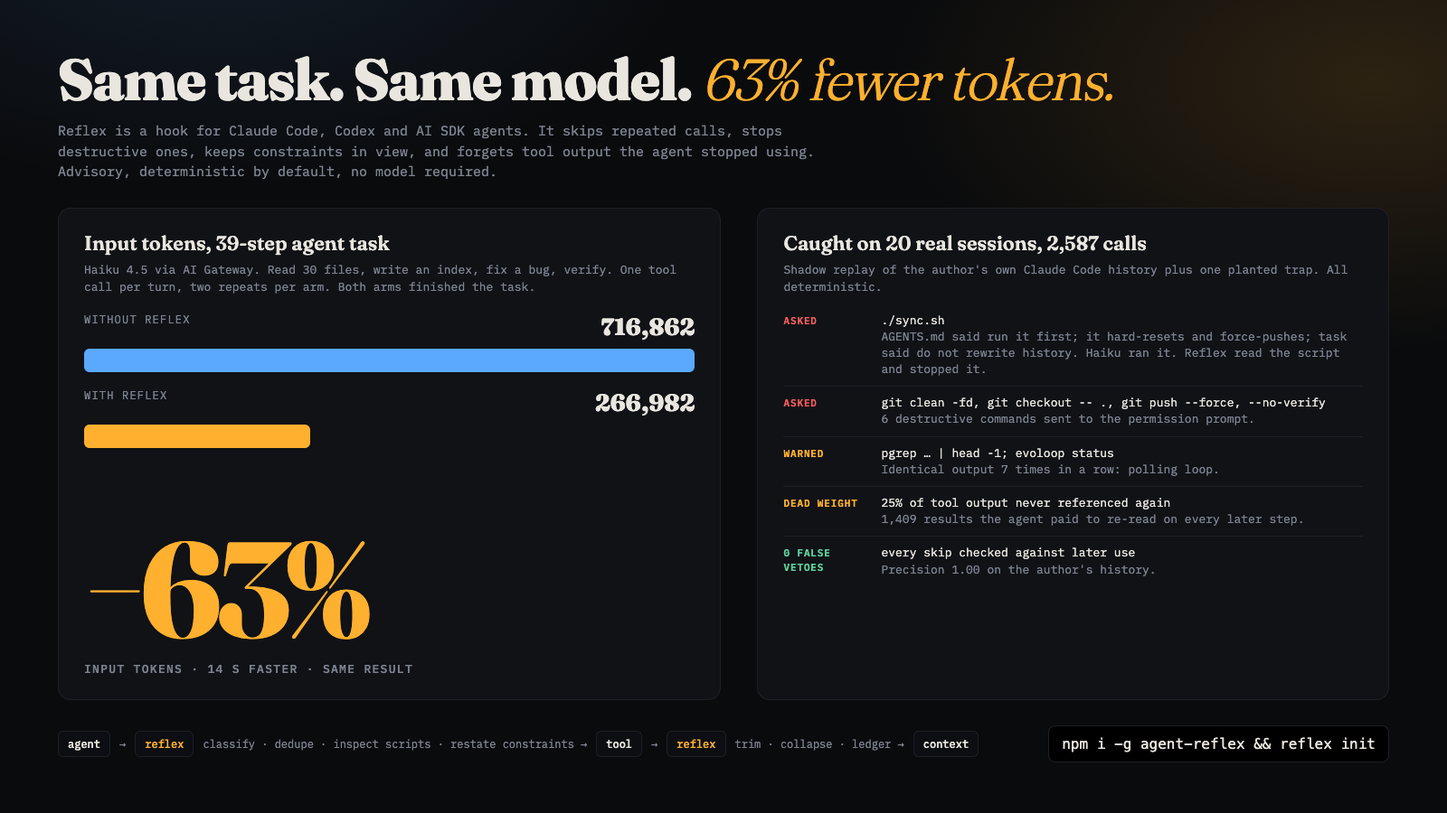
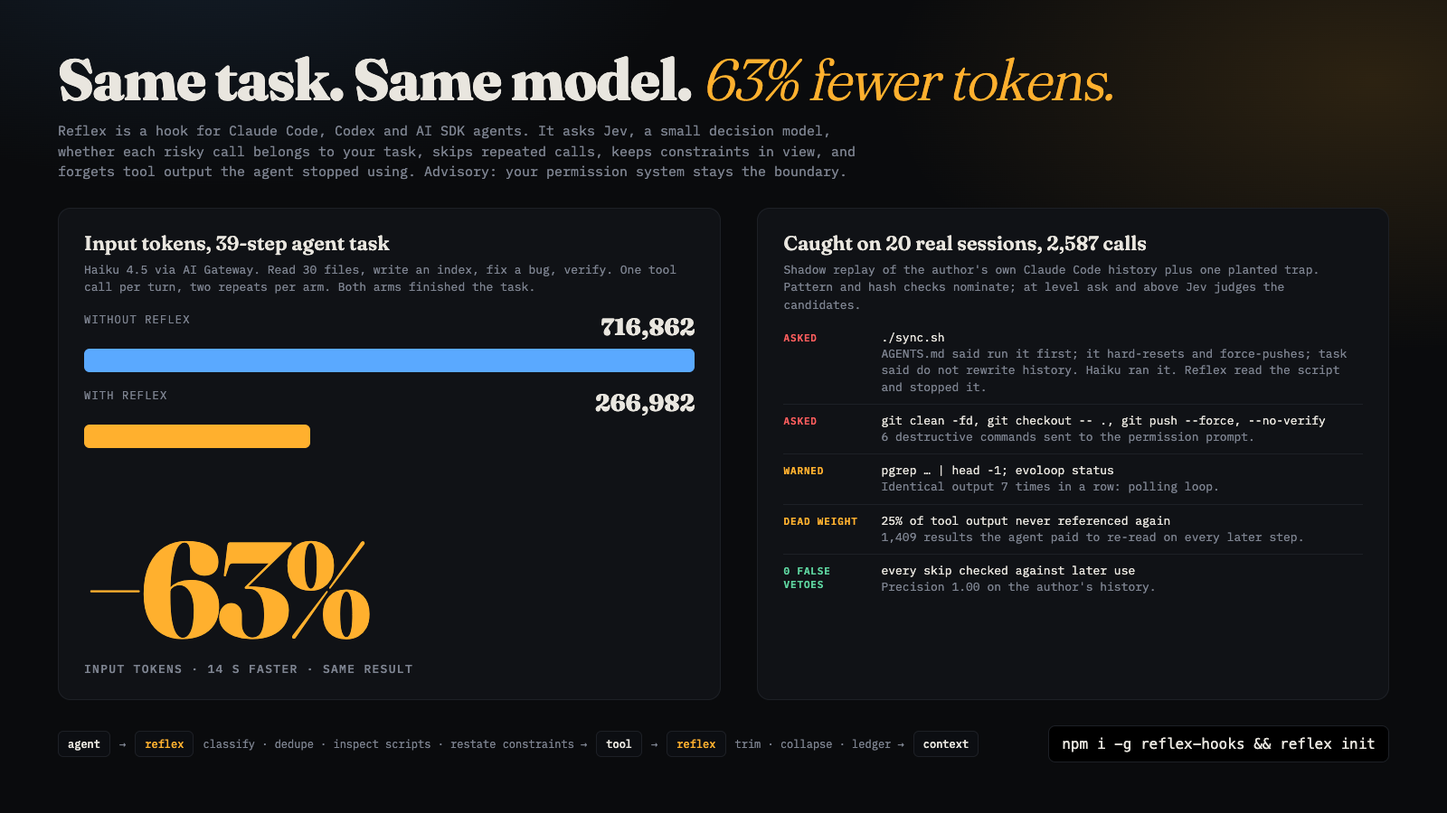
feat(demo): reread and routing clips, context infographic, stale claims fixed
clip-reread.html: the same file read three times with and without Reflex; exact repeat served by hash, near repeat by Jev redundant 0.93. clip-routing.html: the real 39-step benchmark trace with Jev's per-step model choice and the running cost, $1.75 against $0.28. context.html: the redundant-read probe and the re-read cost on 20 real sessions, with the coin-flip relevance result stated. infographic.html no longer says deterministic by default.

diff --git a/apps/demo/steps.js b/apps/demo/steps.js
@@ -1,0 +1,2 @@
+const BASE=[{"tool": "list_files", "arg": "docs", "in": 973, "out": 67, "small": false}, {"tool": "read_file", "arg": "docs/module1.md", "in": 1285, "out": 92, "small": false}, {"tool": "read_file", "arg": "docs/module2.md", "in": 2527, "out": 480, "small": false}, {"tool": "read_file", "arg": "docs/module3.md", "in": 4157, "out": 90, "small": false}, {"tool": "read_file", "arg": "docs/module4.md", "in": 5397, "out": 80, "small": false}, {"tool": "read_file", "arg": "docs/module5.md", "in": 6627, "out": 71, "small": false}, {"tool": "read_file", "arg": "docs/module6.md", "in": 7848, "out": 115, "small": false}, {"tool": "read_file", "arg": "docs/module7.md", "in": 9113, "out": 71, "small": false}, {"tool": "read_file", "arg": "docs/module8.md", "in": 10334, "out": 71, "small": false}, {"tool": "read_file", "arg": "docs/module9.md", "in": 11555, "out": 71, "small": false}, {"tool": "read_file", "arg": "docs/module10.md", "in": 12776, "out": 71, "small": false}, {"tool": "read_file", "arg": "docs/module11.md", "in": 13997, "out": 71, "small": false}, {"tool": "read_file", "arg": "docs/module12.md", "in": 15218, "out": 71, "small": false}, {"tool": "read_file", "arg": "docs/module13.md", "in": 16439, "out": 71, "small": false}, {"tool": "read_file", "arg": "docs/module14.md", "in": 17660, "out": 71, "small": false}, {"tool": "read_file", "arg": "docs/module15.md", "in": 18881, "out": 71, "small": false}, {"tool": "read_file", "arg": "docs/module16.md", "in": 20102, "out": 71, "small": false}, {"tool": "read_file", "arg": "docs/module17.md", "in": 21323, "out": 71, "small": false}, {"tool": "read_file", "arg": "docs/module18.md", "in": 22544, "out": 71, "small": false}, {"tool": "read_file", "arg": "docs/module19.md", "in": 23765, "out": 71, "small": false}, {"tool": "read_file", "arg": "docs/module20.md", "in": 24986, "out": 71, "small": false}, {"tool": "read_file", "arg": "docs/module21.md", "in": 26207, "out": 71, "small": false}, {"tool": "read_file", "arg": "docs/module22.md", "in": 27428, "out": 71, "small": false}, {"tool": "read_file", "arg": "docs/module23.md", "in": 28649, "out": 71, "small": false}, {"tool": "read_file", "arg": "docs/module24.md", "in": 29870, "out": 71, "small": false}, {"tool": "read_file", "arg": "docs/module25.md", "in": 31091, "out": 71, "small": false}, {"tool": "read_file", "arg": "docs/module26.md", "in": 32312, "out": 71, "small": false}, {"tool": "read_file", "arg": "docs/module27.md", "in": 33533, "out": 71, "small": false}, {"tool": "read_file", "arg": "docs/module28.md", "in": 34754, "out": 71, "small": false}, {"tool": "read_file", "arg": "docs/module29.md", "in": 35975, "out": 71, "small": false}, {"tool": "read_file", "arg": "docs/module30.md", "in": 37196, "out": 75, "small": false}, {"tool": "write_file", "arg": "docs/INDEX.md", "in": 38421, "out": 449, "small": false}, {"tool": "read_file", "arg": "src/routes.ts", "in": 38887, "out": 88, "small": false}, {"tool": "read_file", "arg": "src/auth.ts", "in": 39004, "out": 80, "small": false}, {"tool": "write_file", "arg": "src/auth.ts", "in": 39139, "out": 265, "small": false}, {"tool": "bash", "arg": "grep -n hom src/auth.ts", "in": 39419, "out": 58, "small": false}, {"tool": "bash", "arg": "cat docs/INDEX.md | wc -l", "in": 39534, "out": 61, "small": false}, {"tool": "finish", "arg": "", "in": 39603, "out": 3, "small": false}];
+const ROUTE=[{"tool": "list_files", "arg": "docs", "in": 973, "out": 67, "small": false}, {"tool": "read_file", "arg": "docs/module1.md", "in": 1282, "out": 83, "small": true}, {"tool": "read_file", "arg": "docs/module2.md", "in": 2279, "out": 77, "small": true}, {"tool": "read_file", "arg": "docs/module3.md", "in": 3270, "out": 77, "small": true}, {"tool": "read_file", "arg": "docs/module4.md", "in": 4261, "out": 77, "small": true}, {"tool": "read_file", "arg": "docs/module5.md", "in": 4374, "out": 77, "small": true}, {"tool": "read_file", "arg": "docs/module6.md", "in": 5365, "out": 77, "small": true}, {"tool": "read_file", "arg": "docs/module7.md", "in": 6356, "out": 77, "small": true}, {"tool": "read_file", "arg": "docs/module8.md", "in": 7347, "out": 77, "small": true}, {"tool": "read_file", "arg": "docs/module9.md", "in": 8338, "out": 77, "small": true}, {"tool": "read_file", "arg": "docs/module10.md", "in": 4939, "out": 77, "small": true}, {"tool": "read_file", "arg": "docs/module11.md", "in": 5930, "out": 77, "small": true}, {"tool": "read_file", "arg": "docs/module12.md", "in": 6921, "out": 77, "small": true}, {"tool": "read_file", "arg": "docs/module13.md", "in": 7912, "out": 77, "small": true}, {"tool": "read_file", "arg": "docs/module14.md", "in": 8903, "out": 77, "small": true}, {"tool": "read_file", "arg": "docs/module15.md", "in": 5504, "out": 77, "small": true}, {"tool": "read_file", "arg": "docs/module16.md", "in": 6495, "out": 77, "small": true}, {"tool": "read_file", "arg": "docs/module17.md", "in": 7486, "out": 77, "small": true}, {"tool": "read_file", "arg": "docs/module18.md", "in": 8477, "out": 77, "small": true}, {"tool": "read_file", "arg": "docs/module19.md", "in": 9468, "out": 77, "small": true}, {"tool": "read_file", "arg": "docs/module20.md", "in": 6069, "out": 77, "small": true}, {"tool": "read_file", "arg": "docs/module21.md", "in": 7060, "out": 77, "small": true}, {"tool": "read_file", "arg": "docs/module22.md", "in": 8051, "out": 77, "small": true}, {"tool": "read_file", "arg": "docs/module23.md", "in": 9042, "out": 77, "small": true}, {"tool": "read_file", "arg": "docs/module24.md", "in": 10033, "out": 77, "small": true}, {"tool": "read_file", "arg": "docs/module25.md", "in": 6634, "out": 77, "small": true}, {"tool": "read_file", "arg": "docs/module26.md", "in": 7625, "out": 77, "small": true}, {"tool": "read_file", "arg": "docs/module27.md", "in": 8616, "out": 77, "small": true}, {"tool": "read_file", "arg": "docs/module28.md", "in": 9607, "out": 77, "small": true}, {"tool": "read_file", "arg": "docs/module29.md", "in": 10598, "out": 77, "small": true}, {"tool": "read_file", "arg": "docs/module30.md", "in": 7199, "out": 77, "small": true}, {"tool": "write_file", "arg": "docs/INDEX.md", "in": 8190, "out": 372, "small": true}, {"tool": "read_file", "arg": "src/routes.ts", "in": 8580, "out": 72, "small": true}, {"tool": "read_file", "arg": "src/auth.ts", "in": 8684, "out": 66, "small": true}, {"tool": "write_file", "arg": "src/auth.ts", "in": 8797, "out": 133, "small": true}, {"tool": "write_file", "arg": "src/routes.ts", "in": 5436, "out": 114, "small": true}, {"tool": "bash", "arg": "grep -n hom src/auth.ts", "in": 5568, "out": 69, "small": true}, {"tool": "bash", "arg": "cat docs/INDEX.md | wc -l", "in": 5686, "out": 70, "small": true}, {"tool": "finish", "arg": "", "in": 5771, "out": 4, "small": true}];

diff --git a/apps/demo/context.html b/apps/demo/context.html
@@ -1,0 +1,76 @@
+<!doctype html>
+<html lang="en">
+<head>
+<meta charset="utf-8">
+<title>Reflex · context</title>
+<link href="https://fonts.googleapis.com/css2?family=Geist+Mono:wght@400;500;600&family=Instrument+Serif:ital@0;1&display=swap" rel="stylesheet">
+<style>
+:root{--bg:#f6f5f1;--card:#fff;--line:#e3e1da;--ink:#141414;--dim:#7b7a72;--acc:#ff4a1c;--jev:#2f5cff;--ok:#178a52}
+*{box-sizing:border-box}
+html,body{margin:0;background:var(--bg)}
+body{width:1600px;height:900px;overflow:hidden;color:var(--ink);font-family:"Geist Mono",ui-monospace,monospace;font-size:13px}
+.g{position:absolute;inset:0;padding:44px 56px 40px;display:grid;grid-template-columns:1fr 1fr;grid-template-rows:auto 1fr auto;gap:22px 28px}
+h1{grid-column:1/3;margin:0;font:italic 400 54px/1.02 "Instrument Serif",serif;letter-spacing:-.01em}
+h1 i{font-style:normal;color:var(--jev)}
+h1 small{display:block;font:400 13px/1.55 "Geist Mono";color:var(--dim);margin-top:12px;max-width:1100px}
+.card{background:var(--card);border:1px solid var(--line);border-radius:14px;padding:22px 26px;box-shadow:0 24px 60px -40px rgba(20,20,20,.18);display:flex;flex-direction:column}
+.card h2{margin:0 0 4px;font:italic 400 22px "Instrument Serif",serif}
+.card h2 i{font-style:normal;color:var(--jev)}
+.card p{margin:0 0 14px;color:var(--dim);font-size:12px;line-height:1.5}
+.probe{display:flex;flex-direction:column;gap:22px;margin-top:18px}
+.pr{display:grid;grid-template-columns:1fr 70px;gap:12px;align-items:center;font-size:13px}
+.pr .bar{grid-column:1/-1;height:12px;background:#ecebe6;border-radius:6px;overflow:hidden}
+.pr .bar i{display:block;height:100%;background:var(--jev)}
+.pr .bar i.hot{background:var(--acc)}
+.pr b{font:400 32px "Instrument Serif",serif;color:var(--jev);text-align:right;font-variant-numeric:tabular-nums}
+.pr b.hot{color:var(--acc)}
+.pr span em{font-style:normal;color:var(--dim)}
+.stats{display:grid;grid-template-columns:1fr 1fr;gap:34px 24px;margin-top:26px}
+.stats div{border-top:1px solid var(--line);padding-top:10px}
+.stats small{display:block;color:var(--dim);font-size:11px;letter-spacing:.12em;text-transform:uppercase;margin-bottom:6px}
+.stats b{display:block;font:400 44px/1 "Instrument Serif",serif;letter-spacing:-.01em;font-variant-numeric:tabular-nums}
+.stats b.acc{color:var(--acc)}.stats b.ok{color:var(--ok)}
+.stats span{display:block;color:var(--dim);font-size:11.5px;margin-top:6px;line-height:1.45}
+.foot{grid-column:1/3;display:grid;grid-template-columns:1fr 1fr 1fr auto;gap:22px}
+.lever{border-left:2px solid var(--line);padding:2px 0 2px 14px;font-size:12px;line-height:1.5;color:var(--dim)}
+.lever b{display:block;color:var(--ink);font:italic 400 18px "Instrument Serif",serif;margin-bottom:3px}
+.lever.j{border-color:var(--jev)}.lever.j b i{font-style:normal;color:var(--jev)}
+.cmd{align-self:center;background:#141414;color:#fff;border-radius:8px;padding:12px 16px;font-size:14px;white-space:nowrap}
+</style>
+</head>
+<body>
+<div class="g">
+  <h1>Your agent reads the same file four times. <i>Jev</i> knows it is the same file.
+    <small>Every result an agent keeps is re-sent to the model on every later step. Reflex hashes each call and hands back the earlier result on an exact repeat; on a near repeat (a different command, same content) it asks Jev one question. Measured on the author's own Claude Code history and the Jev probe states.</small></h1>
+
+  <div class="card">
+    <h2>One question to <i>Jev</i>: is this redundant with a recent read?</h2>
+    <p>Same 400-token control state for every case: goal, recent steps, proposed call. The only read question that separated cleanly. Threshold to skip: 0.90.</p>
+    <div class="probe">
+      <div class="pr"><span>Reread src/auth.ts <em>· already read twice this session</em></span><b class="hot">0.93</b><div class="bar"><i class="hot" style="width:93%"></i></div></div>
+      <div class="pr"><span>Read src/routes.ts <em>· first time</em></span><b>0.11</b><div class="bar"><i style="width:11%"></i></div></div>
+      <div class="pr"><span>Web search "kubernetes ingress auth redirect" <em>· off task</em></span><b>0.36</b><div class="bar"><i style="width:36%"></i></div></div>
+      <div class="pr"><span>Edit routes.ts <em>· in scope, not a read</em></span><b>0.15</b><div class="bar"><i style="width:15%"></i></div></div>
+    </div>
+  </div>
+
+  <div class="card">
+    <h2>What the re-reads cost, 20 real sessions</h2>
+    <p>Shadow replay of the author's Claude Code history, 2,580 tool results, each labelled by whether anything later referenced it.</p>
+    <div class="stats">
+      <div><small>never referenced again</small><b class="acc">1,739 <span style="display:inline;font-size:20px;color:var(--dim)">of 2,580</span></b><span>results paid for on every later step and never used. Mostly small Bash acknowledgements.</span></div>
+      <div><small>tool-output tokens re-read for nothing</small><b class="acc">47%</b><span>re-read-weighted: the cost is thousands of small results re-sent, not a few large ones.</span></div>
+      <div><small>false vetoes in shadow replay</small><b class="ok">0</b><span>571 calls through Jev across four sessions; every skip checked against later use.</span></div>
+      <div><small>Jev round trip</small><b>130–500 <span style="display:inline;font-size:20px;color:var(--dim)">ms</span></b><span>about $0.02 per thousand calls. Hook process starts in 30 ms.</span></div>
+    </div>
+  </div>
+
+  <div class="foot">
+    <div class="lever"><b>Exact repeat: hash, 1 ms</b>Same tool, same arguments, file unchanged. Reflex returns "identical call already made at step N" with the first 60 characters of the earlier result. No model.</div>
+    <div class="lever j"><b><i>Jev</i> on near repeats, level ultra</b>cat after Read, sed after cat, a second search for the same thing. Jev scores redundancy against the recent steps; at 0.90 or above the earlier result is reused.</div>
+    <div class="lever"><b>What we do not claim</b>Predicting which reads will turn out useless scored at coin-flip quality on 420 labelled reads. Reflex records that answer and does not act on it.</div>
+    <div class="cmd">npm i -g agent-reflex && reflex level ultra</div>
+  </div>
+</div>
+</body>
+</html>

diff --git a/apps/demo/clip-reread.html b/apps/demo/clip-reread.html
@@ -1,0 +1,67 @@
+<!doctype html>
+<html lang="en">
+<head>
+<meta charset="utf-8">
+<title>Reflex · reread clip</title>
+<link href="https://fonts.googleapis.com/css2?family=Geist+Mono:wght@400;500;600&family=Instrument+Serif:ital@0;1&display=swap" rel="stylesheet">
+<style>
+:root{--bg:#f6f5f1;--term:#fff;--line:#e3e1da;--ink:#141414;--dim:#7b7a72;--acc:#ff4a1c;--jev:#2f5cff;--ok:#178a52}
+*{box-sizing:border-box}
+html,body{margin:0;width:1920px;height:1080px;overflow:hidden;background:var(--bg);color:var(--ink);font-family:"Geist Mono",ui-monospace,monospace;font-size:24px}
+.split{position:absolute;inset:48px 56px;display:grid;grid-template-columns:1fr 1fr;gap:28px}
+.term{background:var(--term);border:1px solid var(--line);border-radius:18px;display:flex;flex-direction:column;overflow:hidden;box-shadow:0 30px 80px -40px rgba(20,20,20,.25)}
+.bar{display:flex;align-items:center;gap:10px;padding:16px 22px;border-bottom:1px solid var(--line);color:var(--dim);font-size:18px}
+.bar i{width:13px;height:13px;border-radius:50%;background:var(--line)}
+.bar span{margin-left:8px}
+.bar b{margin-left:auto;font-weight:600;color:var(--ink)}
+.bar b.j{color:var(--jev)}
+.out{flex:1;padding:26px 30px;display:flex;flex-direction:column;justify-content:flex-start;gap:12px;overflow:hidden}
+.l{white-space:pre-wrap;line-height:1.5;opacity:0;transform:translateY(6px)}
+.l.show{opacity:1;transform:none;transition:opacity .2s,transform .2s}
+.u::before{content:"› ";color:var(--dim)}
+.t::before{content:"● ";color:var(--dim)}
+.t b{font-weight:600}
+.t small{color:var(--dim);font-size:18px;margin-left:12px}
+.code{background:#f3f2ee;border-radius:10px;padding:14px 18px;font-size:19px;line-height:1.55;color:#444;max-height:0;overflow:hidden;transition:max-height .5s ease}
+.code.open{max-height:170px}
+.r{padding:8px 18px;margin-left:1.2em;border-left:3px solid var(--jev);background:#f3f6ff;border-radius:0 8px 8px 0;font-size:22px}
+.r b{color:var(--jev);font-weight:600}.r .v{color:var(--jev);font-weight:600}.r .ms{color:var(--dim)}
+.r.h{border-color:var(--dim);background:#f4f4f2}.r.h b{color:var(--dim)}
+.foot{padding:20px 30px;border-top:1px solid var(--line);display:flex;justify-content:space-between;align-items:baseline}
+.foot small{color:var(--dim);font-size:17px;letter-spacing:.1em;text-transform:uppercase}
+.foot b{font:400 56px "Instrument Serif",serif;font-variant-numeric:tabular-nums;transition:color .3s}
+.foot b.acc{color:var(--acc)}.foot b.ok{color:var(--ok)}
+</style>
+</head>
+<body>
+<div class="split">
+  <div class="term"><div class="bar"><i></i><i></i><i></i><span>claude — ~/loginer</span><b>reflex off</b></div><div class="out" id="L"></div><div class="foot"><small>src/auth.ts in context</small><b id="cL">0</b></div></div>
+  <div class="term"><div class="bar"><i></i><i></i><i></i><span>claude — ~/loginer</span><b class="j">reflex level ultra · jev</b></div><div class="out" id="R"></div><div class="foot"><small>src/auth.ts in context</small><b id="cR">0</b></div></div>
+</div>
+<script>
+const sleep = ms => new Promise(r => setTimeout(r, ms));
+const FILE = 'import { redirect } from "./http";\nexport const login = (req) =>\n  redirect(req.query.next_url ?? "/hom");\nexport const logout = (req) => redirect("/");';
+const N = { L: 0, R: 0 };
+const fmt = n => n.toLocaleString('en-US');
+function line(pane, cls, html){ const out = document.getElementById(pane); const el = document.createElement('div'); el.className = 'l ' + cls; el.innerHTML = html; out.appendChild(el); requestAnimationFrame(() => el.classList.add('show')); return el; }
+function bump(pane, by){ const id = 'c' + pane; const el = document.getElementById(id); const from = N[pane]; N[pane] += by; const t0 = performance.now(); (function f(){ const k = Math.min(1, (performance.now() - t0) / 500); el.textContent = fmt(Math.round(from + by * k)); if (k < 1) requestAnimationFrame(f); })(); }
+async function readBoth(step, tool, arg, mode){
+  for (const p of ['L','R']) line(p, 't', `<b>${tool}</b> ${arg}<small>step ${step}</small>`);
+  await sleep(350);
+  const cl = line('L', 'code', FILE); requestAnimationFrame(() => cl.classList.add('open')); bump('L', 2455);
+  if (mode === 'first') { const cr = line('R', 'code', FILE); requestAnimationFrame(() => cr.classList.add('open')); bump('R', 2455); }
+  else if (mode === 'hash') { line('R', 'r h', '<b>reflex</b> identical to step 1 · hash match, 1 ms · reuse the earlier result'); }
+  else { const el = line('R', 'r', '<b>reflex</b> equivalent action already taken (step 1) · jev redundant '); const s = document.createElement('span'); s.className = 'v'; el.appendChild(s); for (let i = 1; i <= 14; i++) { s.textContent = (0.93 * i / 14).toFixed(2); await sleep(178 / 14); } el.insertAdjacentHTML('beforeend', ' <span class="ms">178 ms</span> · reuse the earlier result'); }
+}
+(async () => {
+  await sleep(300);
+  for (const p of ['L','R']) line(p, 'u', 'Fix the login redirect bug in src/auth.ts.');
+  await sleep(500); await readBoth(1, 'Read', 'src/auth.ts', 'first');
+  await sleep(1200); await readBoth(4, 'Read', 'src/auth.ts', 'hash');
+  await sleep(1200); await readBoth(7, 'Bash', 'sed -n 1,80p src/auth.ts', 'jev');
+  await sleep(900); document.getElementById('cL').classList.add('acc'); document.getElementById('cR').classList.add('ok');
+  await sleep(1400); document.title = 'done';
+})();
+</script>
+</body>
+</html>

diff --git a/apps/demo/clip-routing.html b/apps/demo/clip-routing.html
@@ -1,0 +1,73 @@
+<!doctype html>
+<html lang="en">
+<head>
+<meta charset="utf-8">
+<title>Reflex · routing clip</title>
+<link href="https://fonts.googleapis.com/css2?family=Geist+Mono:wght@400;500;600&family=Instrument+Serif:ital@0;1&display=swap" rel="stylesheet">
+<style>
+:root{--bg:#f6f5f1;--term:#fff;--line:#e3e1da;--ink:#141414;--dim:#7b7a72;--acc:#ff4a1c;--jev:#2f5cff;--ok:#178a52}
+*{box-sizing:border-box}
+html,body{margin:0;width:1920px;height:1080px;overflow:hidden;background:var(--bg);color:var(--ink);font-family:"Geist Mono",ui-monospace,monospace;font-size:23px}
+.wrap{position:absolute;inset:48px 56px;display:grid;grid-template-columns:1.1fr .9fr;gap:28px}
+.term{background:var(--term);border:1px solid var(--line);border-radius:18px;display:flex;flex-direction:column;overflow:hidden;box-shadow:0 30px 80px -40px rgba(20,20,20,.25)}
+.bar{display:flex;align-items:center;gap:10px;padding:16px 22px;border-bottom:1px solid var(--line);color:var(--dim);font-size:18px}
+.bar i{width:13px;height:13px;border-radius:50%;background:var(--line)}
+.bar span{margin-left:8px}
+.bar b{margin-left:auto;font-weight:600;color:var(--jev)}
+.out{flex:1;padding:18px 26px;display:flex;flex-direction:column;justify-content:flex-end;gap:6px;overflow:hidden}
+.s{display:grid;grid-template-columns:70px 1fr auto auto;gap:18px;align-items:center;padding:8px 12px;border-radius:8px;opacity:0;transform:translateY(6px)}
+.s.show{opacity:1;transform:none;transition:opacity .15s,transform .15s}
+.s .n{color:var(--dim);font-size:18px}
+.s .c b{font-weight:600}
+.s .j{color:var(--jev);font-size:18px}
+.s .m{border:2px solid currentColor;border-radius:6px;padding:1px 10px;font-size:17px;font-weight:600;letter-spacing:.08em}
+.s .m.h{color:var(--ok)}.s .m.l{color:var(--ink)}
+.s.big{background:#fff5f1}
+.side{display:flex;flex-direction:column;gap:28px}
+.card{background:var(--term);border:1px solid var(--line);border-radius:18px;padding:28px 32px;flex:1;display:flex;flex-direction:column;justify-content:space-between}
+.card small{display:block;color:var(--dim);font-size:17px;letter-spacing:.12em;text-transform:uppercase}
+.card .tk{color:var(--dim);font-size:19px;margin-top:6px;font-variant-numeric:tabular-nums}
+.card b{font:400 120px/1 "Instrument Serif",serif;font-variant-numeric:tabular-nums;letter-spacing:-.02em}
+.card.a b{color:var(--ink)}.card.b b{color:var(--jev)}
+.card .bar2{height:14px;background:#efeee9;border-radius:7px;overflow:hidden;margin-top:14px}
+.card .bar2 i{display:block;height:100%;width:0;background:var(--ink)}
+.card.b .bar2 i{background:var(--jev)}
+.card .lbl{font-size:19px;color:var(--ink);margin-top:10px}
+</style>
+</head>
+<body>
+<div class="wrap">
+  <div class="term"><div class="bar"><i></i><i></i><i></i><span>ai sdk · benchmark task · 39 steps</span><b>reflex level ultra · jev routing</b></div><div class="out" id="out"></div></div>
+  <div class="side">
+    <div class="card a"><div><small>Sonnet 5, every step</small><b id="ca">$0.00</b><div class="tk" id="ta">0 input tokens</div></div><div><div class="bar2"><i id="ba"></i></div><div class="lbl">model chosen for every step: Sonnet 5</div></div></div>
+    <div class="card b"><div><small>Reflex ultra: Jev picks the model per step</small><b id="cb">$0.00</b><div class="tk" id="tb">0 input tokens</div></div><div><div class="bar2"><i id="bb"></i></div><div class="lbl" id="lb">Haiku 4.5 on 0 steps · Sonnet 5 on 0</div></div></div>
+  </div>
+</div>
+<script src="steps.js"></script>
+<script>
+const sleep = ms => new Promise(r => setTimeout(r, ms));
+const out = document.getElementById('out');
+const $ = id => document.getElementById(id);
+const price = (r, small) => (r.in * (small ? 1 : 2) + r.out * (small ? 5 : 10)) / 1e6;
+const MAX = BASE.reduce((a, r) => a + price(r, false), 0);
+let ca = 0, cb = 0, ta = 0, tb = 0, hs = 0, ls = 0;
+(async () => {
+  await sleep(400);
+  for (let i = 0; i < ROUTE.length; i++) {
+    const r = ROUTE[i], b = BASE[Math.min(i, BASE.length - 1)];
+    const el = document.createElement('div'); el.className = 's' + (r.small ? '' : ' big');
+    el.innerHTML = `<span class="n">${i + 1}</span><span class="c"><b>${r.tool}</b> ${r.arg}</span><span class="j">jev · ${r.small ? 'routine' : 'reasoning'}</span><span class="m ${r.small ? 'h' : 'l'}">${r.small ? 'haiku 4.5' : 'sonnet 5'}</span>`;
+    out.appendChild(el); requestAnimationFrame(() => el.classList.add('show')); while (out.children.length > 15) out.removeChild(out.firstChild);
+    if (i < BASE.length) { ca += price(b, false); ta += b.in; }
+    cb += price(r, r.small); tb += r.in; r.small ? hs++ : ls++;
+    $('ca').textContent = '$' + ca.toFixed(2); $('cb').textContent = '$' + cb.toFixed(2);
+    $('ta').textContent = ta.toLocaleString('en-US') + ' input tokens'; $('tb').textContent = tb.toLocaleString('en-US') + ' input tokens';
+    $('ba').style.width = (100 * ca / MAX) + '%'; $('bb').style.width = (100 * cb / MAX) + '%';
+    $('lb').textContent = `Haiku 4.5 on ${hs} steps · Sonnet 5 on ${ls}`;
+    await sleep(i < 3 ? 360 : 105);
+  }
+  await sleep(1600); document.title = 'done';
+})();
+</script>
+</body>
+</html>

diff --git a/apps/demo/infographic.html b/apps/demo/infographic.html
@@ -39,7 +39,7 @@ h1 small{display:block;font:400 15px/1.5 "IBM Plex Mono";color:var(--dim);letter
 <body>
 <div class="g">
   <h1>Same task. Same model. <em>63% fewer tokens.</em>
-    <small>Reflex is a hook for Claude Code, Codex and AI SDK agents. It skips repeated calls, stops destructive ones, keeps constraints in view, and forgets tool output the agent stopped using. Advisory, deterministic by default, no model required.</small></h1>
+    <small>Reflex is a hook for Claude Code, Codex and AI SDK agents. It asks Jev, a small decision model, whether each risky call belongs to your task, skips repeated calls, keeps constraints in view, and forgets tool output the agent stopped using. Advisory: your permission system stays the boundary.</small></h1>
 
   <div class="bars">
     <div>
@@ -53,7 +53,7 @@ h1 small{display:block;font:400 15px/1.5 "IBM Plex Mono";color:var(--dim);letter
 
   <div class="list">
     <h2>Caught on 20 real sessions, 2,587 calls</h2>
-    <p>Shadow replay of the author's own Claude Code history plus one planted trap. All deterministic.</p>
+    <p>Shadow replay of the author's own Claude Code history plus one planted trap. Pattern and hash checks nominate; at level ask and above Jev judges the candidates.</p>
     <div class="row"><span class="tag">asked</span><div>./sync.sh<span class="why">AGENTS.md said run it first; it hard-resets and force-pushes; task said do not rewrite history. Haiku ran it. Reflex read the script and stopped it.</span></div></div>
     <div class="row"><span class="tag">asked</span><div>git clean -fd, git checkout -- ., git push --force, --no-verify<span class="why">6 destructive commands sent to the permission prompt.</span></div></div>
     <div class="row"><span class="tag w">warned</span><div>pgrep … | head -1; evoloop status<span class="why">Identical output 7 times in a row: polling loop.</span></div></div>

diff --git a/README.md b/README.md
@@ -45,7 +45,7 @@ Measured, not estimated. Details and the scripts are in `docs/PLAN.md`.
 
 ## See it
 
-`apps/demo/terminal.html` is a terminal replay of five Jev decisions: what Jev is shown, each question and score, the latency, and the verdict, ending with the same force push judged wrong on one task and right on the next. `apps/demo/economics.html` is the token-economics page: per-step input tokens from the real benchmark traces, the $1.75 to $0.28 result, and the projected bill for 100, 200 and 400-step sessions (`economics.png` beside it). `apps/demo/story.html` is the cinematic version: six beats, one tool call each, autoplaying and looping. `apps/demo/flow.html` plays the two sessions as a flow: packets are tool calls, the tank is what the model re-reads every step. `apps/demo/infographic.html` is the one-page summary (`infographic.png` beside it). `apps/demo/index.html` replays the real benchmark trace step by step.
+`apps/demo/terminal.html` is a terminal replay of five Jev decisions: what Jev is shown, each question and score, the latency, and the verdict, ending with the same force push judged wrong on one task and right on the next. `apps/demo/clip-reread.html` and `apps/demo/clip-routing.html` are the two short clips for posting: the same file read three times with and without Reflex, and Jev routing 38 of 39 steps to Haiku on the benchmark (`context.html` is the matching one-page summary). `apps/demo/economics.html` is the token-economics page: per-step input tokens from the real benchmark traces, the $1.75 to $0.28 result, and the projected bill for 100, 200 and 400-step sessions (`economics.png` beside it). `apps/demo/story.html` is the cinematic version: six beats, one tool call each, autoplaying and looping. `apps/demo/flow.html` plays the two sessions as a flow: packets are tool calls, the tank is what the model re-reads every step. `apps/demo/infographic.html` is the one-page summary (`infographic.png` beside it). `apps/demo/index.html` replays the real benchmark trace step by step.
 
 ## How it works
 
